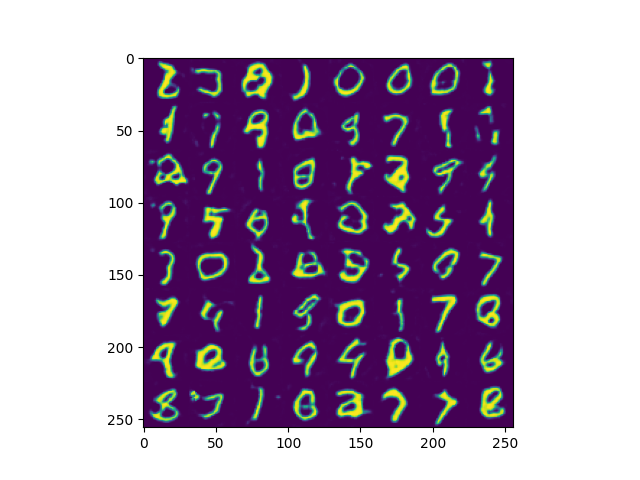
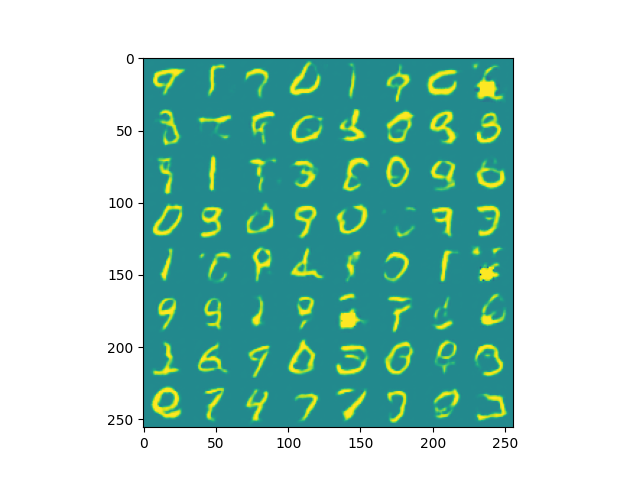
wgan minor changes

diff --git a/wgan/main.py b/wgan/main.py
@@ -13,8 +13,8 @@ from wgan.models import Discriminator, Generator
 
 
 def train(config):
-    dataset = MNIST(root='../', train=True, transform=transforms.Compose([ToTensor(), Resize(size=(32, 32)), transforms.Normalize((0.5, ), (0.5, ))]), download=True)
-    dataloader = DataLoader(dataset, batch_size=config['batch_size'], shuffle=True, num_workers=20, drop_last=True)
+    dataset = MNIST(root='../', train=True, transform=transforms.Compose([ToTensor(), Resize(size=(32, 32))]), download=True)
+    dataloader = DataLoader(dataset, batch_size=config['batch_size'], shuffle=True, drop_last=True)
 
     f = Discriminator().cuda()
     g = Generator().cuda()
@@ -43,7 +43,8 @@ def train(config):
                 loss.backward()
                 optim_g.step()
 
-        evaluate(g)
+        if epoch % 100 == 0:
+            evaluate(g)
 
 def evaluate(model):
     z_dist = MultivariateNormal(torch.zeros(100), torch.eye(100))
@@ -62,6 +63,6 @@ def evaluate(model):
 
 if __name__ == '__main__':
 
-    config = {'batch_size': 64, 'n_critic': 5, 'clip': 1e-2, 'learning_rate': 5e-5, 'epochs': (int)(1e6)}
+    config = {'batch_size': 64, 'n_critic': 5, 'clip': 1e-2, 'learning_rate': 5e-5, 'epochs': (int)(1e7)}
 
     train(config)
